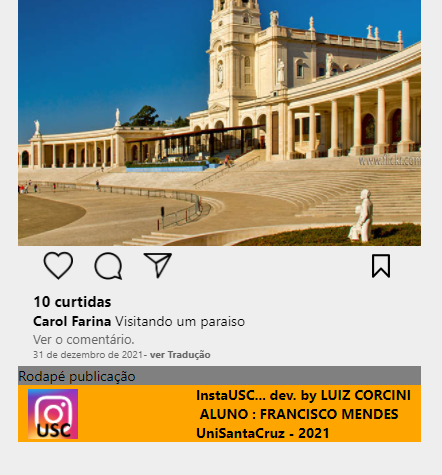
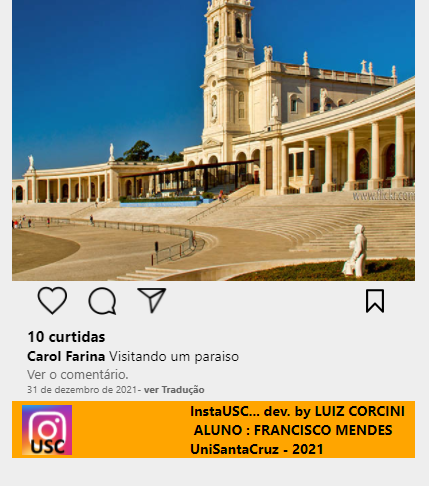
InstaUSC.

diff --git a/InstaUSC/src/componentes/Feed/index.js b/InstaUSC/src/componentes/Feed/index.js
@@ -833,10 +833,10 @@ class Feed extends Component {
                             <Text style={estilos.loc_pub}>{postagem.loc_pub}</Text>
                         </View>
                     </View>
-                    <View style={estilos.area_post_header_direita}>
-                        <View style={estilos.icone}>
-                            <TouchableOpacity style={estilos.botoes}>
-                                <Image style={estilos.icones_post_botoes}
+                    <View style={estilos.icones_post_botoes}>
+                        <View style={estilos.botoes}>
+                            <TouchableOpacity>
+                                <Image
                                     source={require('../../img/options@3x.png')}
                                     resizeMode='contain' />
                             </TouchableOpacity>
@@ -888,10 +888,8 @@ class Feed extends Component {
                         <Text style={estilos.dat_pub2}>- ver Tradução</Text>
                     </View>
                 </View>
-                <View style={estilos.area_post_footer}>
-                    <Text>Rodapé publicação</Text>
-                </View>
             </View>
+
         );
     }
     render() {
